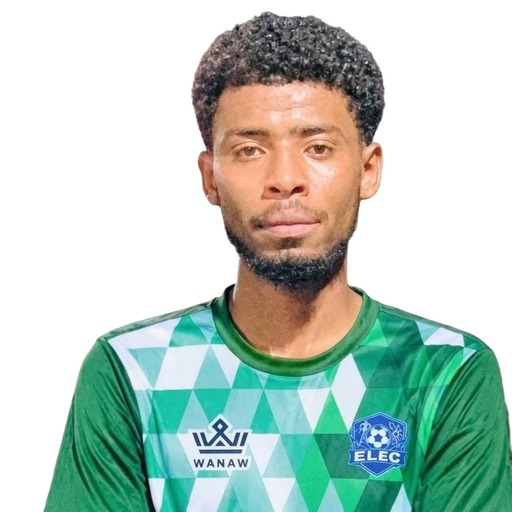
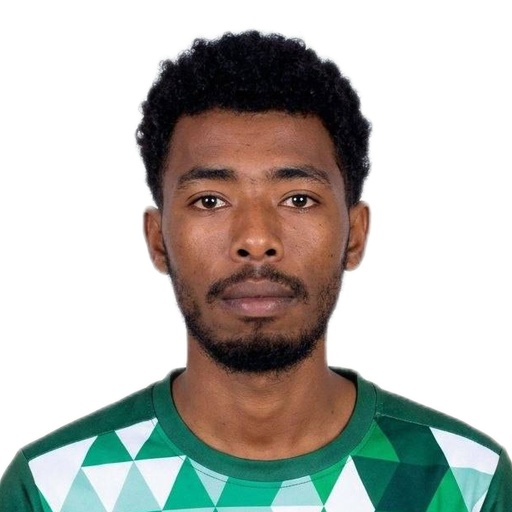
feat: add portrait processing scripts and squad member images

diff --git a/scripts/process_squad_portraits.py b/scripts/process_squad_portraits.py
@@ -1,0 +1,192 @@
+import os
+import sys
+import numpy as np
+from PIL import Image, ImageOps
+import onnxruntime as ort
+
+MODEL_PATH = "C:/Users/HP/.cache/silueta.onnx"
+
+PLAYERS_TO_PROCESS = [
+    # Electrical Engineering
+    ("electrical-engineering", "Chala.jpg", "electrical-engineering-chala-e"),
+    
+    # Marketing
+    ("marketing", "Abel.jpg", "marketing-abel-t"),
+    ("marketing", "Robel K.jpg", "marketing-robel-k"),
+    ("marketing", "Yosef.jpg", "marketing-yosef-l"),
+    
+    # Industrial & Mechanical
+    ("industrial-mechanical", "Abdusemid.jpg", "industrial-mechanical-abdisemed-a"),
+    ("industrial-mechanical", "Bereket.jpg", "industrial-mechanical-bereket-e"),
+    ("industrial-mechanical", "Biruk.jpg", "industrial-mechanical-biruk-z"),
+    ("industrial-mechanical", "Demelash.jpg", "industrial-mechanical-demelash-t"),
+    ("industrial-mechanical", "Eyob.jpg", "industrial-mechanical-eyob-b"),
+    ("industrial-mechanical", "Eyuel.jpg", "industrial-mechanical-eyuel-m"),
+    ("industrial-mechanical", "Girmachew.jpg", "industrial-mechanical-girmachew-z"),
+    ("industrial-mechanical", "Hanery.jpg", "industrial-mechanical-henry-h"),
+    ("industrial-mechanical", "Kidus.jpg", "industrial-mechanical-kidus-e"),
+    ("industrial-mechanical", "Mikael.jpg", "industrial-mechanical-mikael-t"),
+    ("industrial-mechanical", "Mikiyas.jpg", "industrial-mechanical-mikas-t"),
+    ("industrial-mechanical", "Nahom.jpg", "industrial-mechanical-nahom-g"),
+    ("industrial-mechanical", "Natinael A.jpg", "industrial-mechanical-natnael-a"),
+    ("industrial-mechanical", "Natinael H.jpg", "industrial-mechanical-natnael-h"),
+    ("industrial-mechanical", "Natinael T.jpg", "industrial-mechanical-natnael-t"),
+    ("industrial-mechanical", "Yegile.jpg", "industrial-mechanical-yegile-g"),
+]
+
+session = None
+input_name = None
+output_name = None
+
+def get_session():
+    global session, input_name, output_name
+    if session is None:
+        session = ort.InferenceSession(MODEL_PATH, providers=['CPUExecutionProvider'])
+        input_name = session.get_inputs()[0].name
+        output_name = session.get_outputs()[0].name
+    return session, input_name, output_name
+
+def predict_mask(img_pil):
+    sess, in_name, out_name = get_session()
+    orig_w, orig_h = img_pil.size
+    img_resized = img_pil.resize((320, 320), Image.Resampling.BILINEAR)
+    img_arr = np.array(img_resized.convert("RGB"), dtype=np.float32) / 255.0
+    mean = np.array([0.485, 0.456, 0.406], dtype=np.float32)
+    std = np.array([0.229, 0.224, 0.225], dtype=np.float32)
+    norm = (img_arr - mean) / std
+    norm = norm.transpose((2, 0, 1))[np.newaxis, ...]
+    
+    out = sess.run([out_name], {in_name: norm})[0][0, 0]
+    out = (out - out.min()) / (out.max() - out.min() + 1e-8)
+    
+    mask_im = Image.fromarray((out * 255).astype(np.uint8), mode='L')
+    mask_im = mask_im.resize((orig_w, orig_h), Image.Resampling.BILINEAR)
+    return mask_im
+
+def find_headshot_crop(mask_im, orig_w, orig_h):
+    mask = np.array(mask_im) > 100
+    rows = np.where(mask.any(axis=1))[0]
+    if len(rows) == 0:
+        side = min(orig_w, orig_h)
+        return (orig_w - side) // 2, 0, (orig_w + side) // 2, side
+    
+    y_top = int(rows[0])
+    y_bottom = int(rows[-1])
+    person_height = y_bottom - y_top
+    
+    scan_limit = min(y_top + int(person_height * 0.65), y_bottom)
+    widths = []
+    centers = []
+    for y in range(y_top, scan_limit):
+        cols = np.where(mask[y])[0]
+        if len(cols) > 0:
+            widths.append(cols[-1] - cols[0])
+            centers.append((cols[-1] + cols[0]) / 2.0)
+        else:
+            widths.append(0)
+            centers.append(orig_w / 2.0)
+            
+    widths = np.array(widths, dtype=float)
+    centers = np.array(centers, dtype=float)
+    
+    k_len = max(5, int(len(widths) * 0.05))
+    kernel = np.ones(k_len) / k_len
+    smoothed_w = np.convolve(widths, kernel, mode='same')
+    
+    head_search_limit = min(len(smoothed_w), int(person_height * 0.35))
+    head_max_idx = np.argmax(smoothed_w[:head_search_limit]) if head_search_limit > 0 else 0
+    
+    neck_search_start = head_max_idx + max(5, int(person_height * 0.04))
+    neck_search_end = min(len(smoothed_w), neck_search_start + int(person_height * 0.25))
+    
+    if neck_search_end > neck_search_start:
+        neck_slice = smoothed_w[neck_search_start:neck_search_end]
+        neck_min_rel = np.argmin(neck_slice)
+        neck_idx = neck_search_start + neck_min_rel
+        collar_idx = neck_idx + max(5, int(person_height * 0.08))
+    else:
+        collar_idx = int(person_height * 0.32)
+        
+    collar_y = y_top + collar_idx
+    head_h = collar_y - y_top
+    
+    crop_h = int(head_h * 1.35)
+    min_h = int(person_height * 0.60) if person_height > 0 else int(orig_h * 0.60)
+    crop_h = max(crop_h, min_h)
+    crop_w = crop_h
+    
+    crop_top = max(0, y_top - int(crop_h * 0.06))
+    crop_bottom = crop_top + crop_h
+    if crop_bottom > orig_h:
+        crop_bottom = orig_h
+        crop_top = max(0, crop_bottom - crop_h)
+        crop_h = crop_bottom - crop_top
+        crop_w = crop_h
+        
+    head_center_limit = min(len(centers), int(head_search_limit * 1.2))
+    center_x = np.median(centers[:head_center_limit]) if head_center_limit > 0 else orig_w / 2.0
+    
+    crop_left = int(center_x - crop_w / 2.0)
+    crop_right = crop_left + crop_w
+    
+    if crop_left < 0:
+        crop_right -= crop_left
+        crop_left = 0
+    if crop_right > orig_w:
+        crop_left -= (crop_right - orig_w)
+        crop_right = orig_w
+        if crop_left < 0:
+            crop_left = 0
+            
+    return crop_left, crop_top, crop_right, crop_bottom
+
+def process_single(team_folder, raw_filename, player_id):
+    input_path = os.path.join("public", "uploads", "players", team_folder, raw_filename)
+    if not os.path.exists(input_path):
+        print(f"Skipping {player_id}: {input_path} not found")
+        return False
+        
+    try:
+        im = Image.open(input_path)
+        im = ImageOps.exif_transpose(im)
+        im = im.convert("RGB")
+        orig_w, orig_h = im.size
+        
+        mask = predict_mask(im)
+        
+        white_bg = Image.new("RGB", (orig_w, orig_h), (255, 255, 255))
+        composite = Image.composite(im, white_bg, mask)
+        
+        l, t, r, b = find_headshot_crop(mask, orig_w, orig_h)
+        cropped = composite.crop((l, t, r, b))
+        
+        final_img = cropped.resize((512, 512), Image.Resampling.LANCZOS)
+        
+        out_dir_pub = os.path.join("public", "uploads", "players", team_folder)
+        out_dir_dist = os.path.join("dist", "uploads", "players", team_folder)
+        os.makedirs(out_dir_pub, exist_ok=True)
+        os.makedirs(out_dir_dist, exist_ok=True)
+        
+        out_pub = os.path.join(out_dir_pub, f"{player_id}.jpg")
+        out_dist = os.path.join(out_dir_dist, f"{player_id}.jpg")
+        
+        final_img.save(out_pub, "JPEG", quality=95, optimize=True)
+        final_img.save(out_dist, "JPEG", quality=95, optimize=True)
+        print(f"[{team_folder}] Processed {player_id} ({raw_filename}) -> {out_pub}")
+        return True
+    except Exception as e:
+        print(f"Error processing {player_id}: {e}")
+        return False
+
+def main():
+    print(f"--- Processing {len(PLAYERS_TO_PROCESS)} player portraits ---")
+    success_count = 0
+    for team, rfile, pid in PLAYERS_TO_PROCESS:
+        if process_single(team, rfile, pid):
+            success_count += 1
+            
+    print(f"\nCompleted! {success_count}/{len(PLAYERS_TO_PROCESS)} portraits processed.")
+
+if __name__ == "__main__":
+    main()
+
